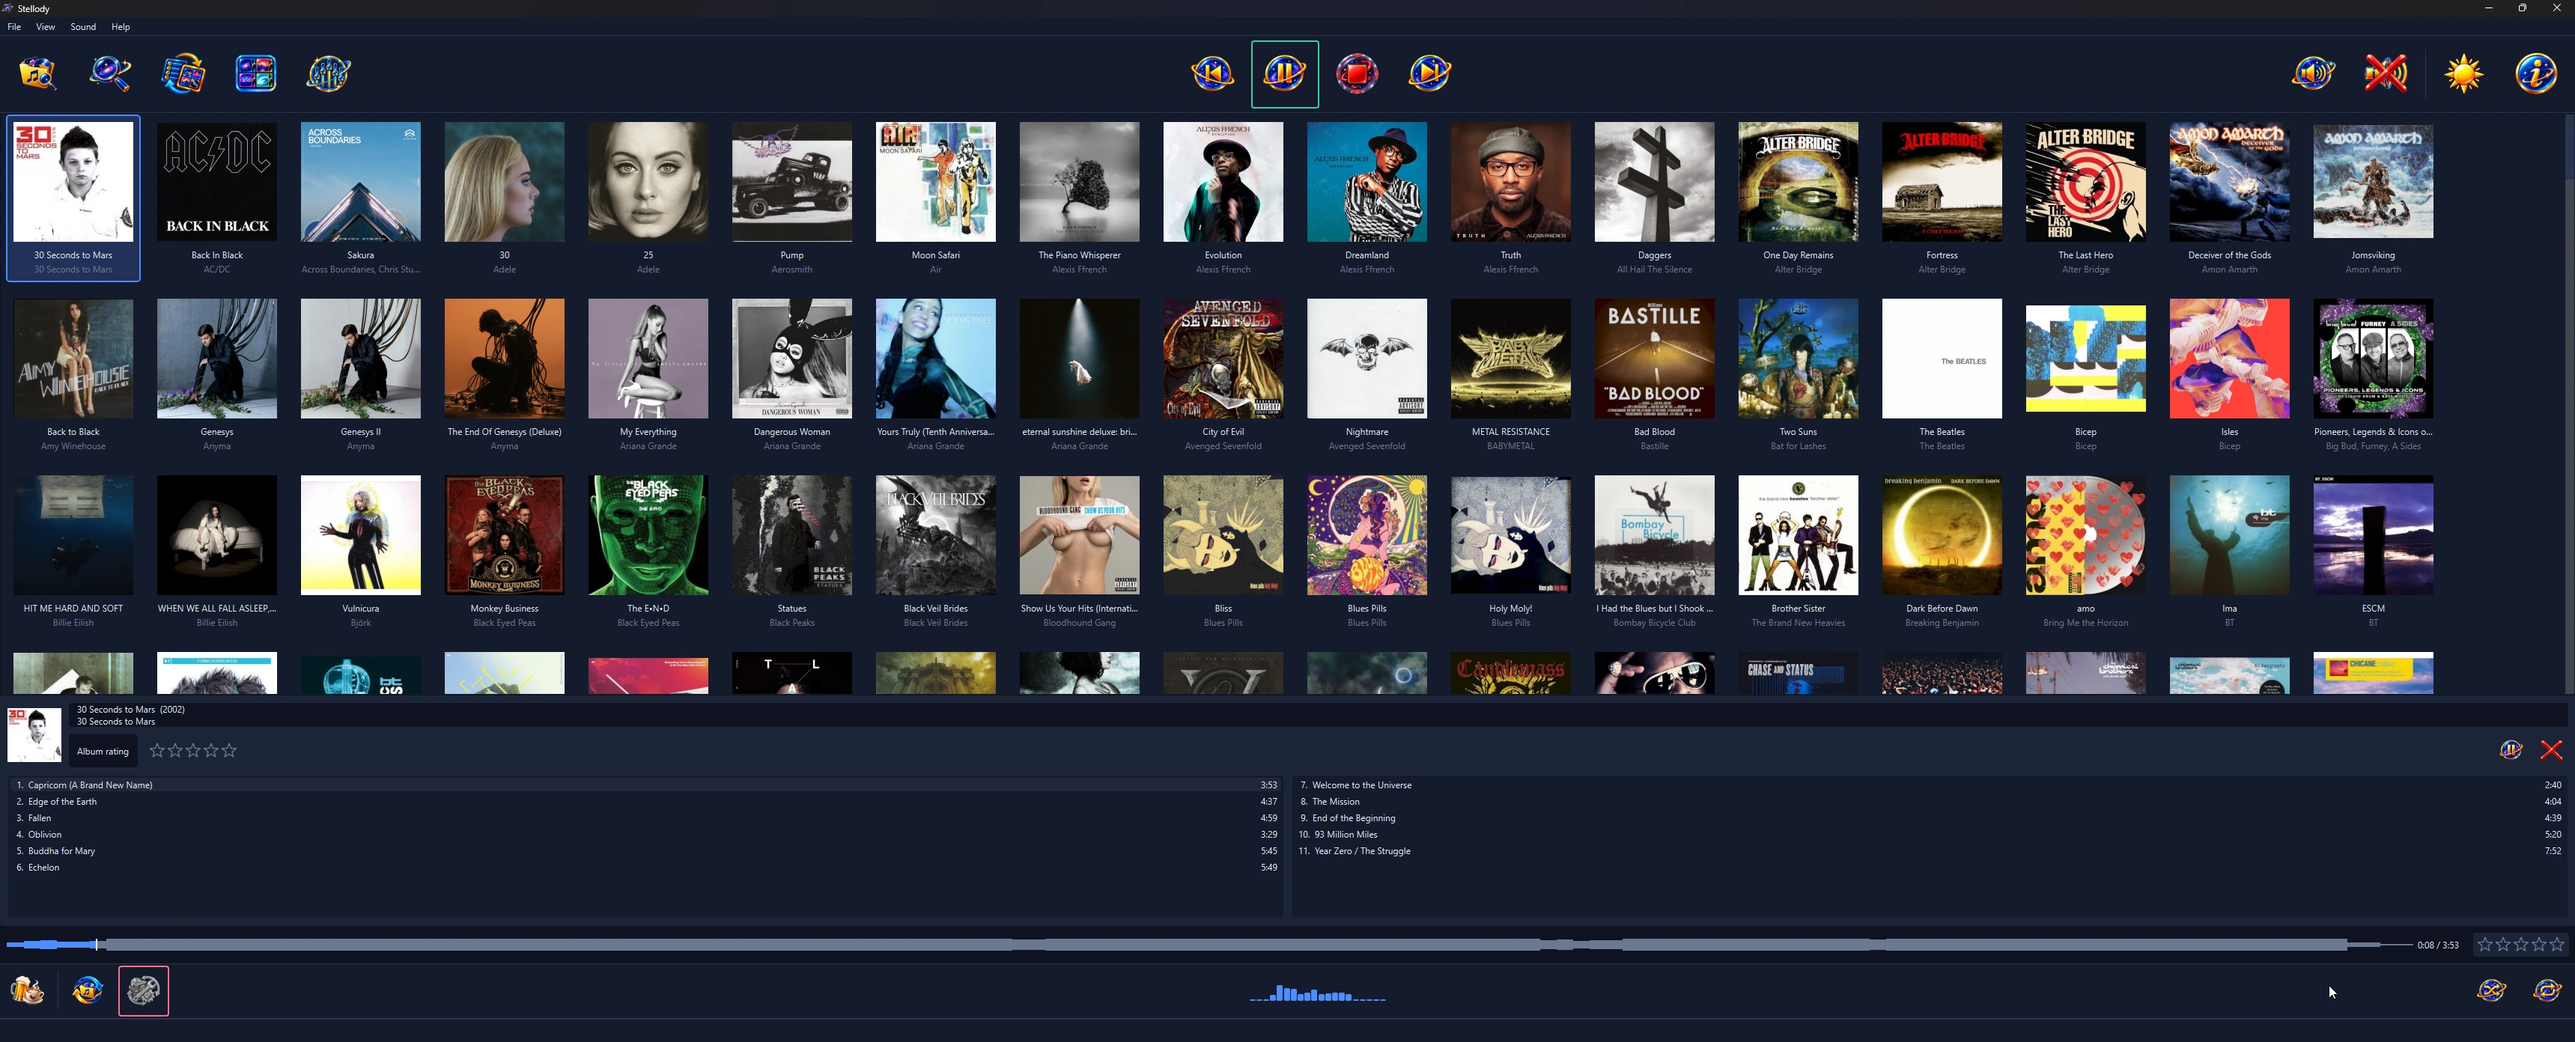
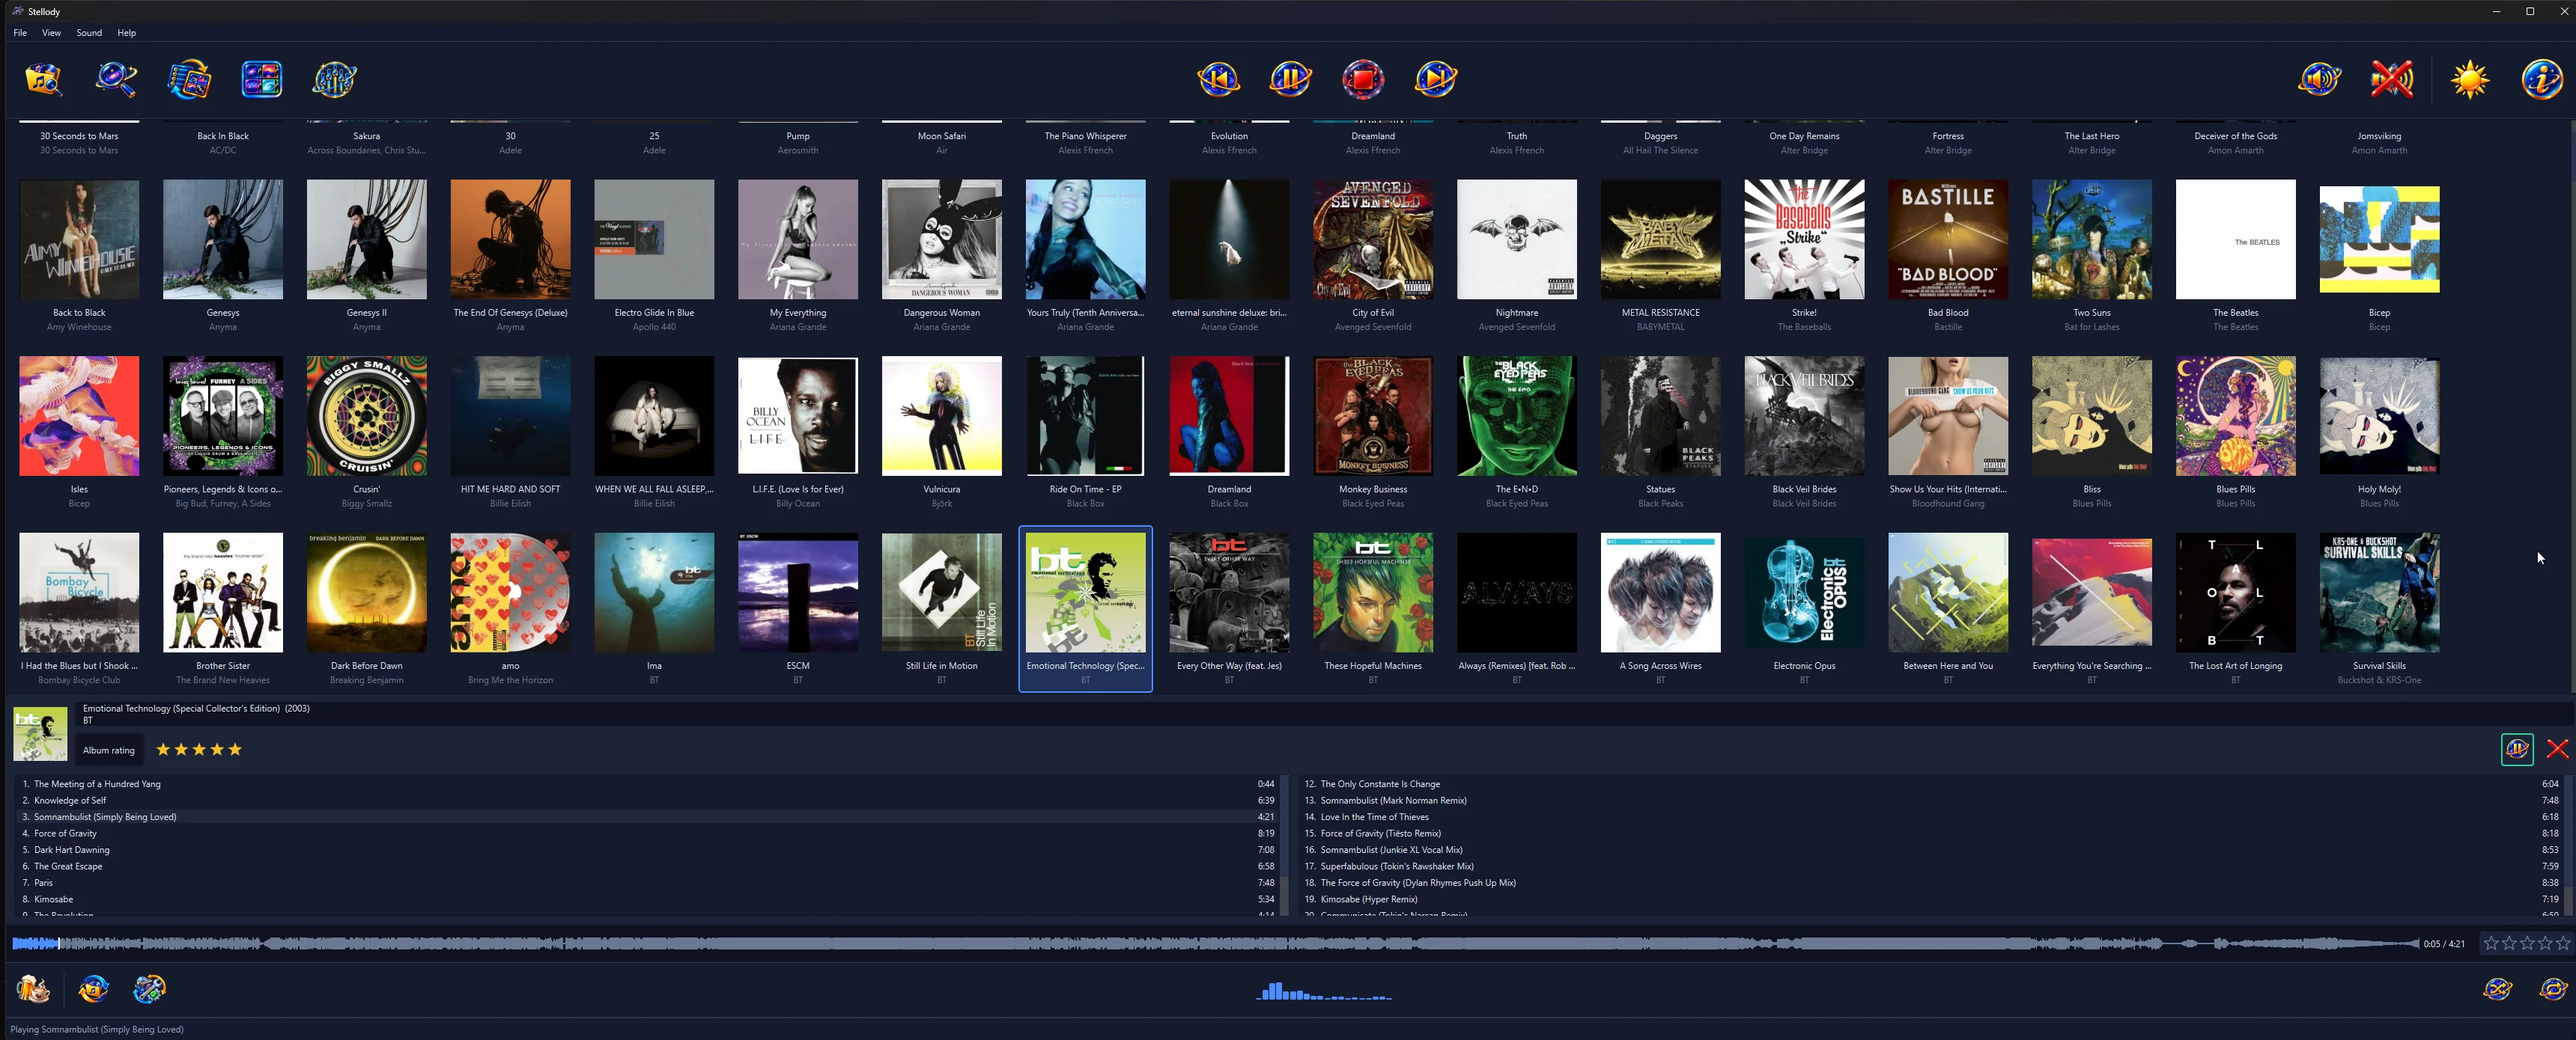
Take the new screenshots onto the site
Both shots are replaced with ones taken from the current build. The list view now shows plain years where the old one showed whole timestamps, which is the fault that made it stale; the grid shot shows an M4A album playing with its artwork, its rating and its waveform.

They arrived as PNG at 3.3 MB and 307 KB and are carried across to WebP at the same dimensions, 418 KB and 126 KB, which keeps the decision that the site does not serve heavy PNG and keeps the filenames the pages already ask for. The alt text on the front page describes the album now in the picture.

PLAN.md milestone 2 is narrowed rather than closed: an M4A album has been played and heard, while a seek into the middle of a track and a gapless move to the next one have not been watched; nor is it recorded whether the listening was in the packaged build.

diff --git a/docs/index.html b/docs/index.html
@@ -101,7 +101,7 @@
 
   <div class="hero-shot fade d4">
     <div class="shot">
-      <img src="screenshots/stellody1.webp" width="1720" height="696" alt="Stellody showing a grid of album sleeves, with the self-titled 30 Seconds to Mars album opened in a pane beneath it: its title, artist and album rating above its eleven tracks running down two columns. The equalizer button sits with the view controls at the left of the top tray; the waveform bar runs along the bottom and the spectrum display moves in the middle of the strip below it.">
+      <img src="screenshots/stellody1.webp" width="1720" height="696" alt="Stellody showing a grid of album sleeves, with BT's Emotional Technology opened in a pane beneath it: its title, artist and year above a four star album rating, then its tracks running down two columns with their lengths. The status line names the track playing. The equalizer button sits with the view controls at the left of the top tray; the waveform bar runs along the bottom and the spectrum display moves in the middle of the strip below it.">
     </div>
     <p class="shot-caption">Click a cover to open the album underneath it. The rest of your collection stays exactly where it was.</p>
   </div>

diff --git a/PLAN.md b/PLAN.md
@@ -75,12 +75,17 @@ people's libraries rather than about this one. They stay named in
 `UNPLAYABLE_SUFFIXES` and reported, which is the honest state until somebody
 has a library that needs them.
 
-**What is still open here is verification, not code.** It has not been played
-through in the built application; the offscreen suite cannot settle that:
-what it can settle is that the reader hands back the same samples the codec
+**What is still open here is verification rather than code; it has narrowed.** An
+M4A album has now been played and heard: the screenshot on the site is BT's
+Emotional Technology partway through a track, which also settles that the tags,
+the artwork, the waveform and the rating all came through. Two of the three
+conditions below are therefore not yet answered rather than wholly unanswered:
+a seek into the middle of a track and a gapless move to the next one have not
+been watched; nor is it recorded whether the listening was done in the packaged
+build or from source. The offscreen suite cannot settle any of them;
+what it does settle is that the reader hands back the same samples the codec
 does, that a seek lands where it was asked and that a lossy file claims no bit
-depth, all of which it does. Everything that has to be heard rather than
-measured remains unheard.
+depth.
 
 **The packaged build carries the decoder. It took one flag to get there.** The
 risk was carried here on the reasoning that `buildexe.py` names no packages
